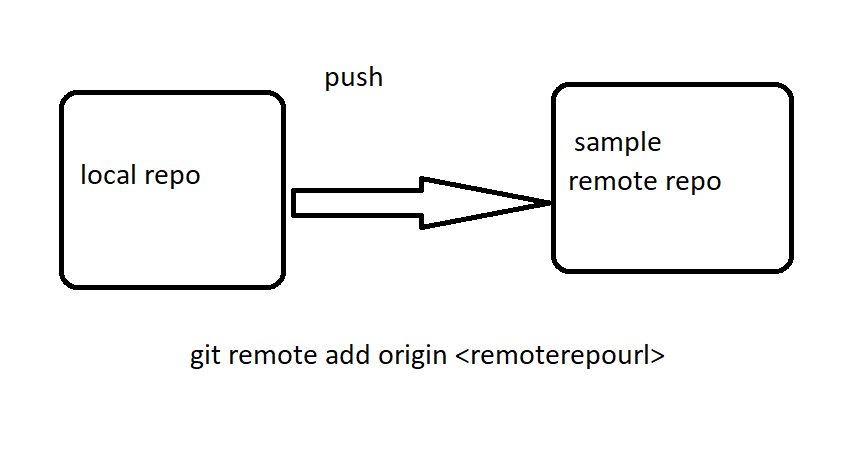
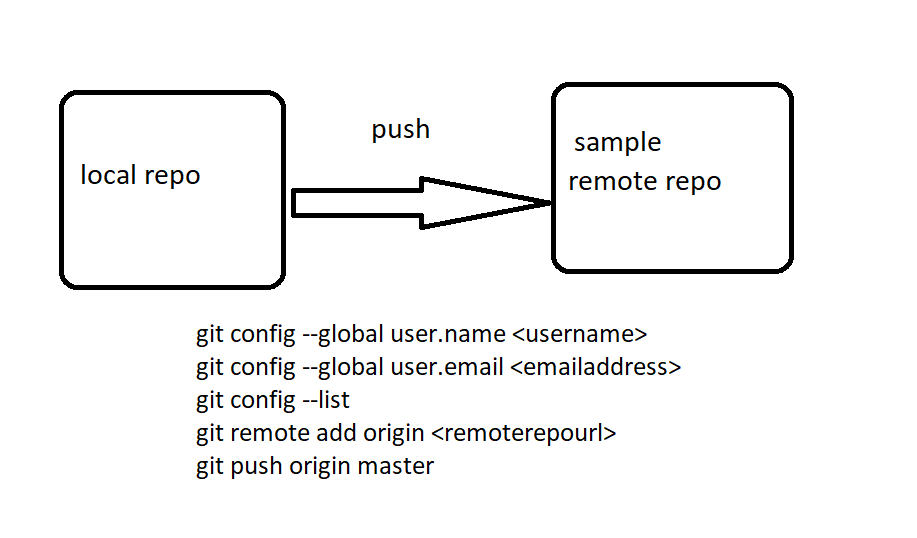
s

Changed region(s): [[0.0603, 0.1545, 0.935, 0.8962], [0.3921, 0.2163, 0.4826, 0.2781], [0.3619, 0.1545, 0.4524, 0.2163]]

diff --git a/FEB-2023/Git/Git.md b/FEB-2023/Git/Git.md
@@ -220,3 +220,111 @@ git revert <commitid>
 ![preview](../images/h6.png)
 ![preview](../images/h7.png)
 
+
+## Create a repositry in the github:
+* Go to the repositries and then refer the image below:
+![preview](../images/git19.png)
+* Provided the repositry name and make it public , so that it will be available to everyone.
+![preview](../images/git20.png)
+
+## Configure RemoteRepo to the LocalRepo to push the code. 
+
+![preview](../images/git21.png)
+
+* To configure the git in your local  :
+
+```
+git config --global user.name <username>
+git config --global user.email <emailaddress>
+git config --list
+git remote add origin https://github.com/devops-surya/sample.git
+git push origin master
+```
+![preview](../images/git22.png)
+
+## PersonalAccessTokens
+* Git depricated the support of using password and  expecting us to use the PersonalAccessToekn as password.
+* Go to >> Settings >> Developer Settings >> Personal access tokens >> Generate New Token >> 1.Note 2.Expiration 3.select scopes 4. Generate Token
+
+![preview](../images/gn1.png)
+![preview](../images/gn2.png)
+![preview](../images/gn3.png)
+![preview](../images/gn4.png)
+![preview](../images/gn5.png)
+![preview](../images/gn6.png)
+
+
+
+## Scenario : A new developer added to a team and he/she want the  total code from the repositry:
+
+```
+git clone https://github.com/devops-surya/sample.git
+```
+![preview](../images/git23.png)
+
+## Scenario : A developer already exists and he/she has the code in his local desktop. But he/she dont have the latest code.
+
+```
+git pull https://github.com/devops-surya/sample.git
+```
+
+
+## Merge conflicts.
+
+## Scenario : We have two developers newly assigned to a new project.
+
+![preview](../images/git34.png)
+
+* To create the above scenario , follow the below steps :
+  * Create a folder of mergeconflicts.
+  * create a two folders with names developer1 , developer2 .
+  * Get into folders of developer1, developer2 and clone the repo .
+  ![preview](../images/g1.png)
+  * Developer1 has made some changes to the file 6.txt and then pushed to the repo .
+  ![preview](../images/g2.png) 
+  * Developer2 has made changes on the local and pushed the changes , here it is asking for the pull as shown below :
+  ![preview](../images/g3.png) 
+  * Developer2 has to pull the code and has to take call of merge conflicts and push the code again.
+  ![preview](../images/g4.png)
+
+## Multiple branching :
+* If a company want to serve the code to the mutliple companies , they will create multiple branches and go for the parallel development.
+![preview](../images/git35.png)
+
+* To create a branch
+
+```
+git branch <branchname>
+```
+* To list the branches:
+```
+git branch
+```
+
+* To switch between the branches
+
+```
+git checkout <branchname>
+```
+
+* To create a branch and switch to it directly:
+
+```
+git checkout -b <branchname> 
+```
+![preview](../images/git36.png)
+![preview](../images/git37.png)
+
+* To push the code from the company-x branch to the remote repo:
+
+```
+git push origin company-x
+```
+![preview](../images/git38.png)
+![preview](../images/git39.png)
+
+* To see the remote branches:
+```
+git branch -r
+```
+![preview](../images/git40.png)

diff --git a/Fast_Track_April_2022/CI-CD/Git.md b/Fast_Track_April_2022/CI-CD/Git.md
@@ -180,14 +180,13 @@ git reset --hard
 ![preview](../images/git18.png)
 
 
-
 ## Create a repositry in the github:
 * Go to the repositries and then refer the image below:
 ![preview](../images/git19.png)
 * Provided the repositry name and make it public , so that it will be available to everyone.
 ![preview](../images/git20.png)
 
-## Add remote repo to the local repo for push 
+## Configure RemoteRepo to the LocalRepo to push the code. 
 
 ![preview](../images/git21.png)
 
@@ -197,14 +196,8 @@ git reset --hard
 git config --global user.name <username>
 git config --global user.email <emailaddress>
 git config --list
-```
-
-```
 git remote add origin https://github.com/devops-surya/sample.git
-
 git push origin master
-
-
 ```
 ![preview](../images/git22.png)
 
@@ -236,7 +229,7 @@ git pull https://github.com/devops-surya/sample.git
 
 ## Merge conflicts.
 
-## * Scenario : We have two developers newly assigned to a new project.
+## Scenario : We have two developers newly assigned to a new project.
 
 ![preview](../images/git34.png)
 
@@ -252,7 +245,8 @@ git pull https://github.com/devops-surya/sample.git
   * Developer2 has to pull the code and has to take call of merge conflicts and push the code again.
   ![preview](../images/g4.png)
 
-  # Multiple branching :
+
+## Multiple branching :
 * If a company want to serve the code to the mutliple companies , they will create multiple branches and go for the parallel development.
 ![preview](../images/git35.png)
 
